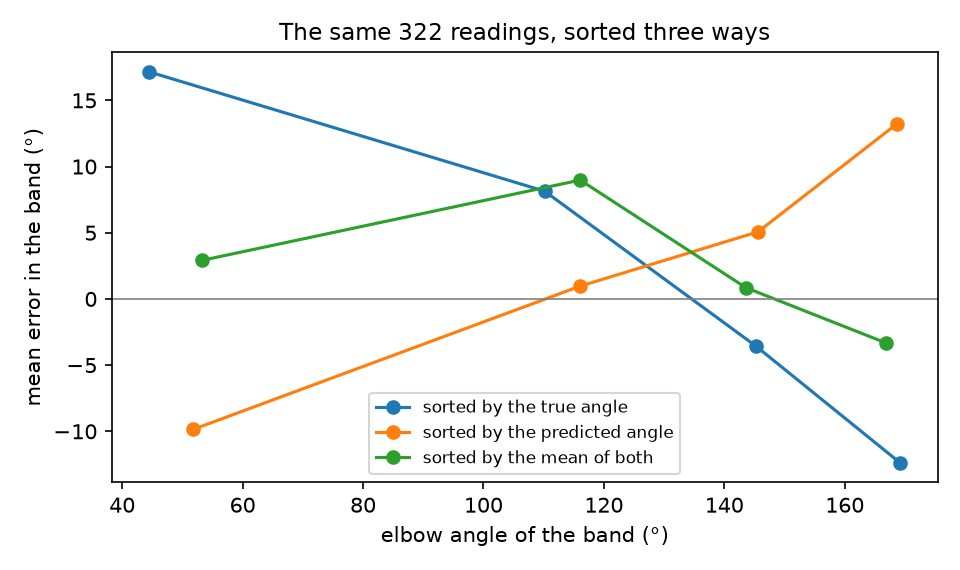
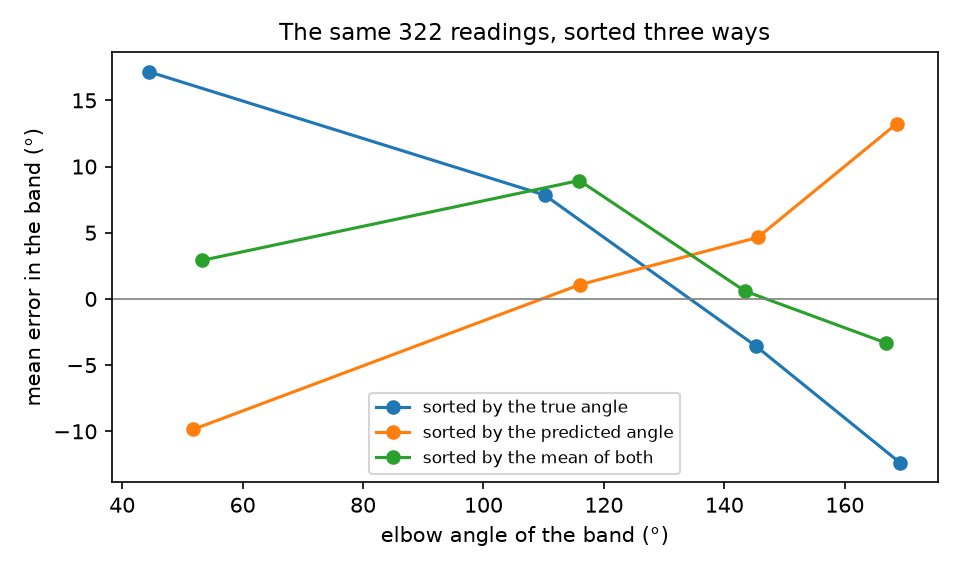
docs: regenerate the demo figures and numbers after the pairing fix
On the COCO elbow demo 5 of 490 pairs change. The README, the notebook's
printed output, label_noise.out.md and the two figures are regenerated.

diff --git a/README.md b/README.md
@@ -11,7 +11,7 @@
 ![Left: predicted against true angle. Right: Bland-Altman plot](https://raw.githubusercontent.com/8rulerstar/poseaudit/main/docs/panels.png)
 
 On `yolo11n-pose` against COCO's labels, **58% of elbow angles are off by 15°
-or more when the arm segments average under 30 px, against 28% above 60 px**
+or more when the arm segments average under 30 px, against 26% above 60 px**
 ([details](#what-the-demo-shows)).
 
 **Who it is for:** anyone who reads an angle, a tilt or a length off
@@ -42,10 +42,10 @@ On the demo data in
 $ poseaudit audit --format coco --gt gt_200.json --pred pred_yolo11n.json \
     --angle 5,7,9 --big-error 15 --size-bands 30,60
 angle (5, 7, 9): read 322 of 380 labelled instances
-  |error|      mean 19.55° [17.13 to 22.16], median 12.64°, 95th pct 68.99°
-  >= 15°       43.5% [38.2% to 48.9%]
-  by size      0-30 px 58% (n 134), 30-60 px 37% (n 112), 60+ px 28% (n 76)
-  bias         +2.34° [-1.16 to +6.22], median +0.52°
+  |error|      mean 19.48° [17.05 to 22.13], median 12.59°, 95th pct 68.99°
+  >= 15°       43.2% [37.9% to 48.6%]
+  by size      0-30 px 58% (n 134), 30-60 px 37% (n 112), 60+ px 26% (n 76)
+  bias         +2.27° [-1.21 to +6.15], median +0.52°
 ```
 
 <details>
@@ -57,13 +57,13 @@ $ poseaudit audit --format coco --gt gt_200.json --pred pred_yolo11n.json \
 angle (5, 7, 9): read 322 of 380 labelled instances
   not read     no matching prediction 35, prediction lacked a point 23, unmeasurable 0
   not counted  206 with a point unlabelled in the truth, 79 unmatched predictions
-  |error|      mean 19.55° [17.13 to 22.16], median 12.64°, 95th pct 68.99°
-  >= 15°       43.5% [38.2% to 48.9%]
-  by size      0-30 px 58% (n 134), 30-60 px 37% (n 112), 60+ px 28% (n 76)
-  bias         +2.34° [-1.16 to +6.22], median +0.52°
+  |error|      mean 19.48° [17.05 to 22.13], median 12.59°, 95th pct 68.99°
+  >= 15°       43.2% [37.9% to 48.6%]
+  by size      0-30 px 58% (n 134), 30-60 px 37% (n 112), 60+ px 26% (n 76)
+  bias         +2.27° [-1.21 to +6.15], median +0.52°
   limits       -50.90° to +79.99° (2.5th to 97.5th percentile of errors)
-  gain         0.731 [0.639 to 0.814]; robust 0.784
-  vs jitter    0.871 from keypoint jitter alone; gap -0.140 [-0.199 to -0.077], p(squash) <= 0.002*
+  gain         0.731 [0.639 to 0.814]; robust 0.786
+  vs jitter    0.871 from keypoint jitter alone; gap -0.140 [-0.199 to -0.076], p(squash) <= 0.002*
                * swaps and gross failures lower the gain too, and noisy
                  labels make p small for an honest model: read the gap
   ! 2.5% of errors fall below the normal limits and 4.3% above them, against 2.5% each for a normal error: use the percentile limits.
@@ -122,7 +122,7 @@ the three points with the spread COCO publishes for repeated labels (its OKS
 sigmas) moves the elbow angle by 11 to 16° on average on these same arms,
 depending on how those sigmas are read (a rough estimate that treats each
 label's points as independent; [`validation/label_noise.py`](https://github.com/8rulerstar/poseaudit/blob/main/validation/label_noise.py)).
-A good part of the 19.55° may be the labels'. With a reference better than
+A good part of the 19.48° may be the labels'. With a reference better than
 the model (motion capture, careful relabelling), the same figures describe
 the model.
 
@@ -158,7 +158,7 @@ more than keypoint jitter.
 ## What the demo shows
 
 **Disagreement grows as the arms get smaller.** When the arm segments average
-under 30 px, 58% of elbows are off by 15° or more; above 60 px, 28%. The
+under 30 px, 58% of elbows are off by 15° or more; above 60 px, 26%. The
 signed bias of +2° hides all of this, and so does a single mAP. The link with
 size is an association; size is not the whole cause. Some of it is geometry:
 a pixel of error turns a short segment further than a long one, for the label
@@ -170,7 +170,7 @@ more often occluded, blurred and loosely labelled.
 |---|---|---|---|---|
 | 0 to 30 px | 134 | 25.55° | 58.2% [49.7% to 66.2%] | 0.526 |
 | 30 to 60 px | 112 | 16.57° | 36.6% [28.3% to 45.8%] | 0.791 |
-| 60+ px | 76 | 13.36° | 27.6% [18.8% to 38.6%] | 0.911 |
+| 60+ px | 76 | 13.06° | 26.3% [17.7% to 37.2%] | 0.909 |
 
 ## Which way you sort decides the story
 
@@ -246,7 +246,7 @@ about 7°. Keypoint jitter alone pulls a gain below 1 too: a straight arm can
 only be read as more bent, a folded one only as more open. The **jitter
 reference** (`vs jitter`) is the gain of predictions rebuilt from the truth
 plus this model's own point displacements ([how](#the-jitter-reference)):
-0.87 here. The model's gain is 0.140 lower (interval 0.077 to 0.199, paired
+0.87 here. The model's gain is 0.140 lower (interval 0.076 to 0.199, paired
 within resamples). With the default seed none of the 500 rebuilds comes out
 as low as the model's (`p(squash) <= 0.002`); with some other seeds one does
 (0.004).
@@ -257,7 +257,7 @@ What that is, the check cannot say:
   straight arm read as folded) and left and right swapped on one side lower
   the gain just as squashing does; failures in random directions are part of
   the rebuilds and do not widen the gap. Leaving out the 31 readings off by
-  45° or more leaves a gap of -0.069 [-0.109 to -0.028] (about half the gap),
+  45° or more leaves a gap of -0.068 [-0.109 to -0.028] (about half the gap),
   and leaving out the 61 off by 30° or more, -0.038 [-0.073 to -0.003]. Those
   subsets are chosen by the outcome, so they describe where the gap comes from
   rather than test it, and trimming by the outcome changes a gap by itself, so
@@ -271,11 +271,11 @@ What that is, the check cannot say:
   ([`validation/label_noise.py`](https://github.com/8rulerstar/poseaudit/blob/main/validation/label_noise.py), with independent
   normal noise on each point). Under that model label noise does not explain
   this gap, but it does trip the p: those honest models got
-  `p(squash) <= 0.05` in 17 to 40% of 30 runs each. With noisy labels, read
+  `p(squash) <= 0.05` in 7 to 23% of 30 runs each. With noisy labels, read
   the size of the gap, not the p.
 - **Squashing** is what remains, and it is not separated from the two above.
   The slopes that suit equal noise, the Bland-Altman slope (-0.049 [-0.119 to
-  +0.017]) and Deming at a noise ratio of 1 (0.945 [0.870 to 1.019]), include
+  +0.016]) and Deming at a noise ratio of 1 (0.945 [0.870 to 1.019]), include
   no squashing, but do not rule out a small one. Which to trust
   depends on the noise ratio, which this data does not pin down. Deming for
   other ratios (`--noise-ratio`, the variance of prediction noise over that
@@ -283,7 +283,7 @@ What that is, the check cannot say:
 
   | noise ratio | 1 | 4 | 10 |
   |---|---|---|---|
-  | Deming slope | 0.945 [0.870 to 1.019] | 0.797 [0.708 to 0.878] | 0.758 [0.667 to 0.842] |
+  | Deming slope | 0.945 [0.870 to 1.019] | 0.797 [0.707 to 0.877] | 0.758 [0.667 to 0.842] |
 
   On these arms honest models give a Deming slope at a ratio of 1 near 1
   whether the labels are clean or as noisy as the model, with independent
@@ -296,7 +296,7 @@ Whether the rest is squashing of a few percent or nothing, this data cannot
 tell.
 
 A few gross failures move a least-squares slope a lot. The **robust gain**, a
-Theil-Sen slope that they barely move, is 0.78 here against the least-squares
+Theil-Sen slope that they barely move, is 0.79 here against the least-squares
 0.73. Noise that grows with the angle, or on smaller arms, also separates the
 two, so their difference alone does not say how much comes from gross
 failures, and a gross failure can also be a label on the wrong limb.

diff --git a/validation/label_noise.out.md b/validation/label_noise.out.md
@@ -2,16 +2,16 @@
 
 | per-axis spread | mean angle change | off by 15° or more | gain of a perfect model |
 |---|---|---|---|
-| sigma*s/2 | 11.2° | 26.0% | 0.932 |
-| sigma*s/sqrt(2) | 15.6° | 39.9% | 0.873 |
+| sigma*s/2 | 11.2° | 25.9% | 0.931 |
+| sigma*s/sqrt(2) | 15.6° | 39.9% | 0.872 |
 
-observed: mean 19.55°, 43.5% off by 15° or more, gain 0.731
+observed: mean 19.48°, 43.2% off by 15° or more, gain 0.731
 
 honest models on the same arms, 30 runs each (spreads in units of sigma*s per axis)
 
 | label spread | model spread | mean gap | p(squash) <= 0.05 | Deming, ratio 1 |
 |---|---|---|---|---|
-| 0.0 | 0.71 | +0.001 | 7% | 1.020 |
-| 0.5 | 0.5 | -0.022 | 33% | 0.999 |
-| 0.71 | 0.71 | -0.042 | 40% | 0.997 |
-| 0.5 | 1.0 | -0.025 | 17% | 1.031 |
+| 0.0 | 0.71 | +0.002 | 0% | 1.018 |
+| 0.5 | 0.5 | -0.021 | 23% | 0.998 |
+| 0.71 | 0.71 | -0.040 | 17% | 0.998 |
+| 0.5 | 1.0 | -0.020 | 7% | 1.035 |
